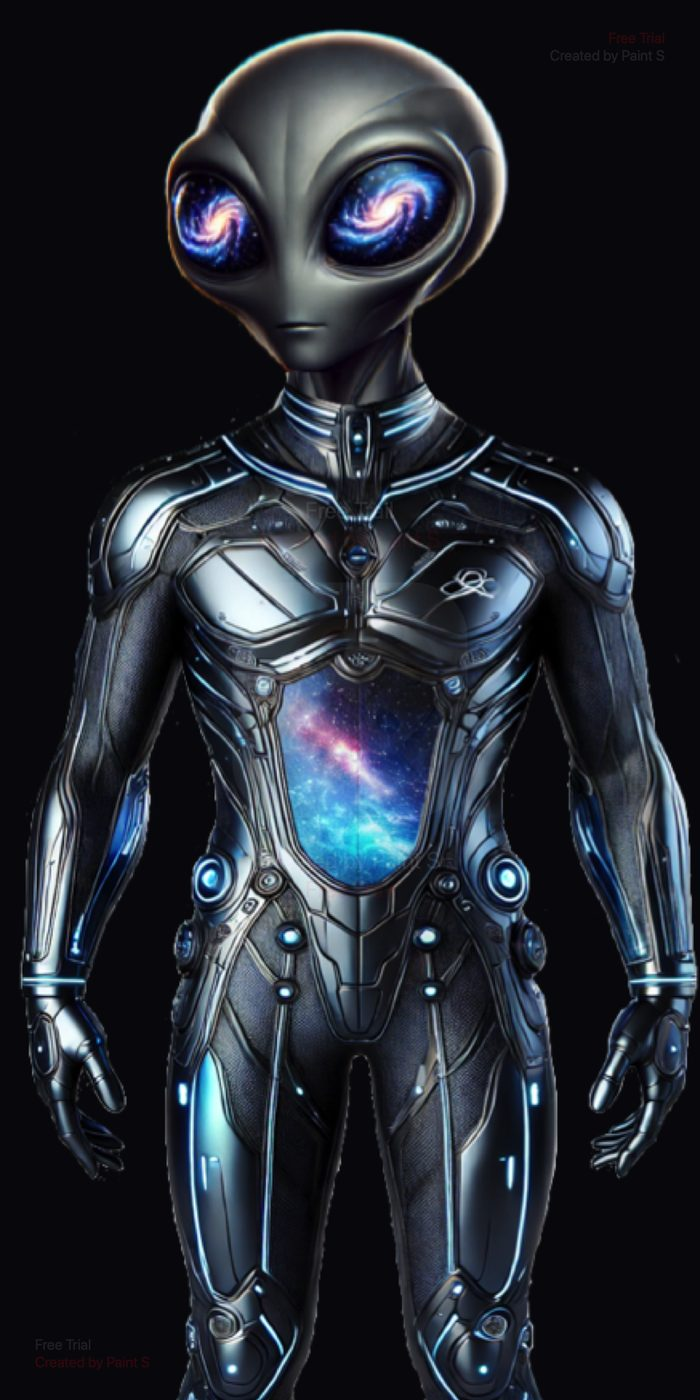
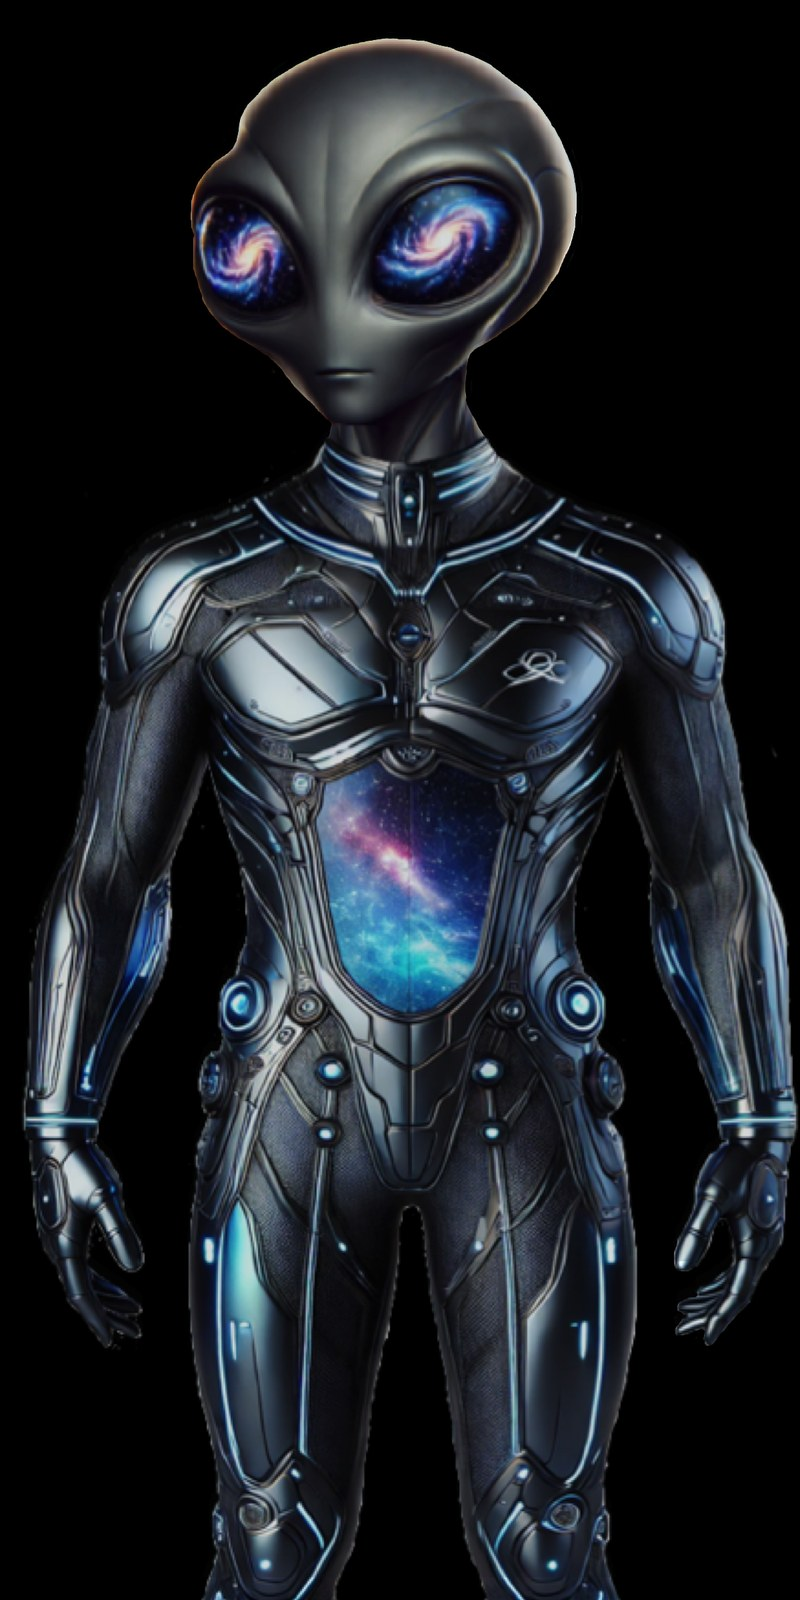
Swap clean Captain Eko; add Astral skin and GhostCode

diff --git a/gallery.html b/gallery.html
@@ -129,6 +129,8 @@
     { src: "assets/gallery/being-06.jpg", cat: "beings", title: "Portal", cap: "A ring you do not step through casually.", size: "" },
     { src: "assets/gallery/being-07.jpg", cat: "beings", title: "Alien tech", cap: "Hardware that does not look like it was made here.", size: "wide" },
     { src: "assets/gallery/being-08.jpg", cat: "beings", title: "Eko’s face", cap: "The chatbot as a being, before it had a page.", size: "" },
+    { src: "assets/gallery/being-09.jpg", cat: "beings", title: "Astral skin", cap: "A grey that carries the sky under the skin.", size: "tall" },
+    { src: "assets/gallery/being-10.jpg", cat: "beings", title: "GhostCode", cap: "Eko7 at the keyboard. The exploration desk, off duty.", size: "" },
     { src: "assets/gallery/cosmos-01.jpg", cat: "cosmos", title: "Galaxy", cap: "A working sky for Psykter’s Space.", size: "wide" },
     { src: "assets/gallery/cosmos-02.jpg", cat: "cosmos", title: "Swirl", cap: "Also the cover for Dreaming Beyond Stars.", size: "", link: "stories/dreaming-beyond-stars.html", linkText: "Read Dreaming Beyond Stars" },
     { src: "assets/gallery/cosmos-03.jpg", cat: "cosmos", title: "Starfield", cap: "Empty enough to hear yourself think.", size: "wide" },
